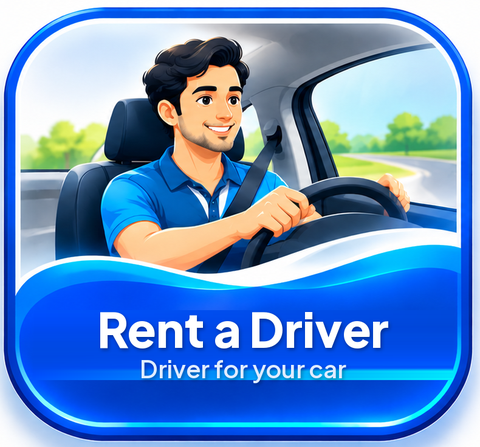
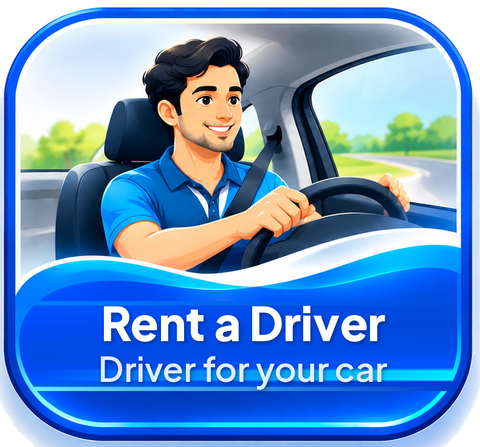
## The words are now inside the tile pictures
- **Rent a Driver** tile: "Rent a Driver" in big letters with "Driver for your car" underneath, both inside the picture.
- **Book a Car** tile: "Book a Car" in big letters with "Car with driver" underneath, also inside the picture.
- I removed the separate caption under the tiles, made the tiles a little bigger and made their corners see-through, so they show as clean rounded tiles.
- The app now says **Book a Car** everywhere instead of "Book Car".
- The automated test passed every check: both pictures load and float, tapping each one opens the right booking screen, and both swap buttons still work. The final screenshot of the home screen confirms the new tiles. My last tweak (bigger small line, see-through corners) was checked with that screenshot only, not a second full test.

## Next Action Items
- **Book a Car Prices**: Show an estimated price for each car type on the Book a Car screen before booking
- **Current Location Pickup**: Add a "Use my location" button that fills the pickup with where I am now
- **Translate Tile Text**: Make tile pictures with Hindi, Telugu and other language text for users who pick those languages
- **Booking Emails**: Email passengers and drivers when a Rent a Driver or Book a Car booking is confirmed

Emergent-Commit-Key: 49db3d44bea33c452f2dbe1d342ff1880b17365ba0e7aa4d4ff19cf67e95b973

Changed region(s): [[0.0625, 0.6689, 0.8125, 0.8725], [0.8438, 0.8434, 0.9375, 0.8725]]

diff --git a/frontend/app/(tabs)/index.tsx b/frontend/app/(tabs)/index.tsx
@@ -67,9 +67,8 @@ function PassengerHome() {
     router.push({ pathname: "/search", params: { from: JSON.stringify(from), to: JSON.stringify(to), date: date ?? "", seats: "1" } });
   };
   const art = (testID: string, img: number, title: string, sub: string, bg: string, onPress: () => void, delay: number) => (
-    <Pressable testID={testID} onPress={onPress} style={({ pressed }) => ({ flex: 1, borderRadius: radius.lg, backgroundColor: bg, overflow: "hidden", padding: space.sm, gap: 2,
-      shadowColor: "#14233A", shadowOpacity: 0.08, shadowRadius: 12, shadowOffset: { width: 0, height: 6 }, elevation: 3, transform: [{ scale: pressed ? 0.97 : 1 }] })}>
-      <FloatingImage source={img} delay={delay} style={{ width: "100%", height: 150 }} testID={`${testID}-image`} accessibilityLabel={`${title}. ${sub}`} />
+    <Pressable testID={testID} onPress={onPress} style={({ pressed }) => ({ flex: 1, backgroundColor: bg, transform: [{ scale: pressed ? 0.97 : 1 }] })}>
+      <FloatingImage source={img} delay={delay} style={{ width: "100%", height: 165 }} testID={`${testID}-image`} accessibilityLabel={`${title}. ${sub}`} />
     </Pressable>
   );
 
@@ -108,8 +107,8 @@ function PassengerHome() {
           </Card>
         </Animated.View>
         <Animated.View entering={FadeInDown.delay(80).duration(400)} style={{ flexDirection: "row", gap: space.md, paddingHorizontal: space.lg }}>
-          {art("home-rent-driver-card", require("@/assets/images/tile-rent-driver.png"), "Rent a Driver", "Driver for your car", "#FFFFFF", () => router.push("/hire?service=rent"), 0)}
-          {art("home-book-car-card", require("@/assets/images/tile-book-car.png"), "Book a Car", "Car with driver", "#FFFFFF", () => router.push("/hire?service=book"), 400)}
+          {art("home-rent-driver-card", require("@/assets/images/tile-rent-driver.png"), "Rent a Driver", "Driver for your car", "transparent", () => router.push("/hire?service=rent"), 0)}
+          {art("home-book-car-card", require("@/assets/images/tile-book-car.png"), "Book a Car", "Car with driver", "transparent", () => router.push("/hire?service=book"), 400)}
         </Animated.View>
 
         <Animated.View entering={FadeInDown.delay(120).duration(400)} style={{ gap: space.sm, paddingHorizontal: space.lg }}>

diff --git a/memory/PRD.md b/memory/PRD.md
@@ -186,3 +186,4 @@ Pan-India intercity paid carpooling app (BlaBlaCar model) called TRAVOO, tagline
 - The home tiles use the user's artwork (assets/images/tile-rent-driver.png, tile-book-car.png) on white cards. FloatingImage now accepts a local `source`.
 - "Book a Driver" is renamed "Book Car" (car with driver) everywhere in the UI. The service key stays `book`.
 - The hire screen has a pickup ⇄ destination swap (hire-swap-button). The home search uses the pickup pin and destination arrow icons. Tested in iteration_36: frontend 100%.
+- Iteration 37: the tile artwork now has the text inside the image ("Rent a Driver / Driver for your car", "Book a Car / Car with driver"), transparent corners, and no caption below. The UI label is now "Book a Car". Tested in iteration_37: frontend 100%. Edit script: /tmp/edit.py (temporary)
